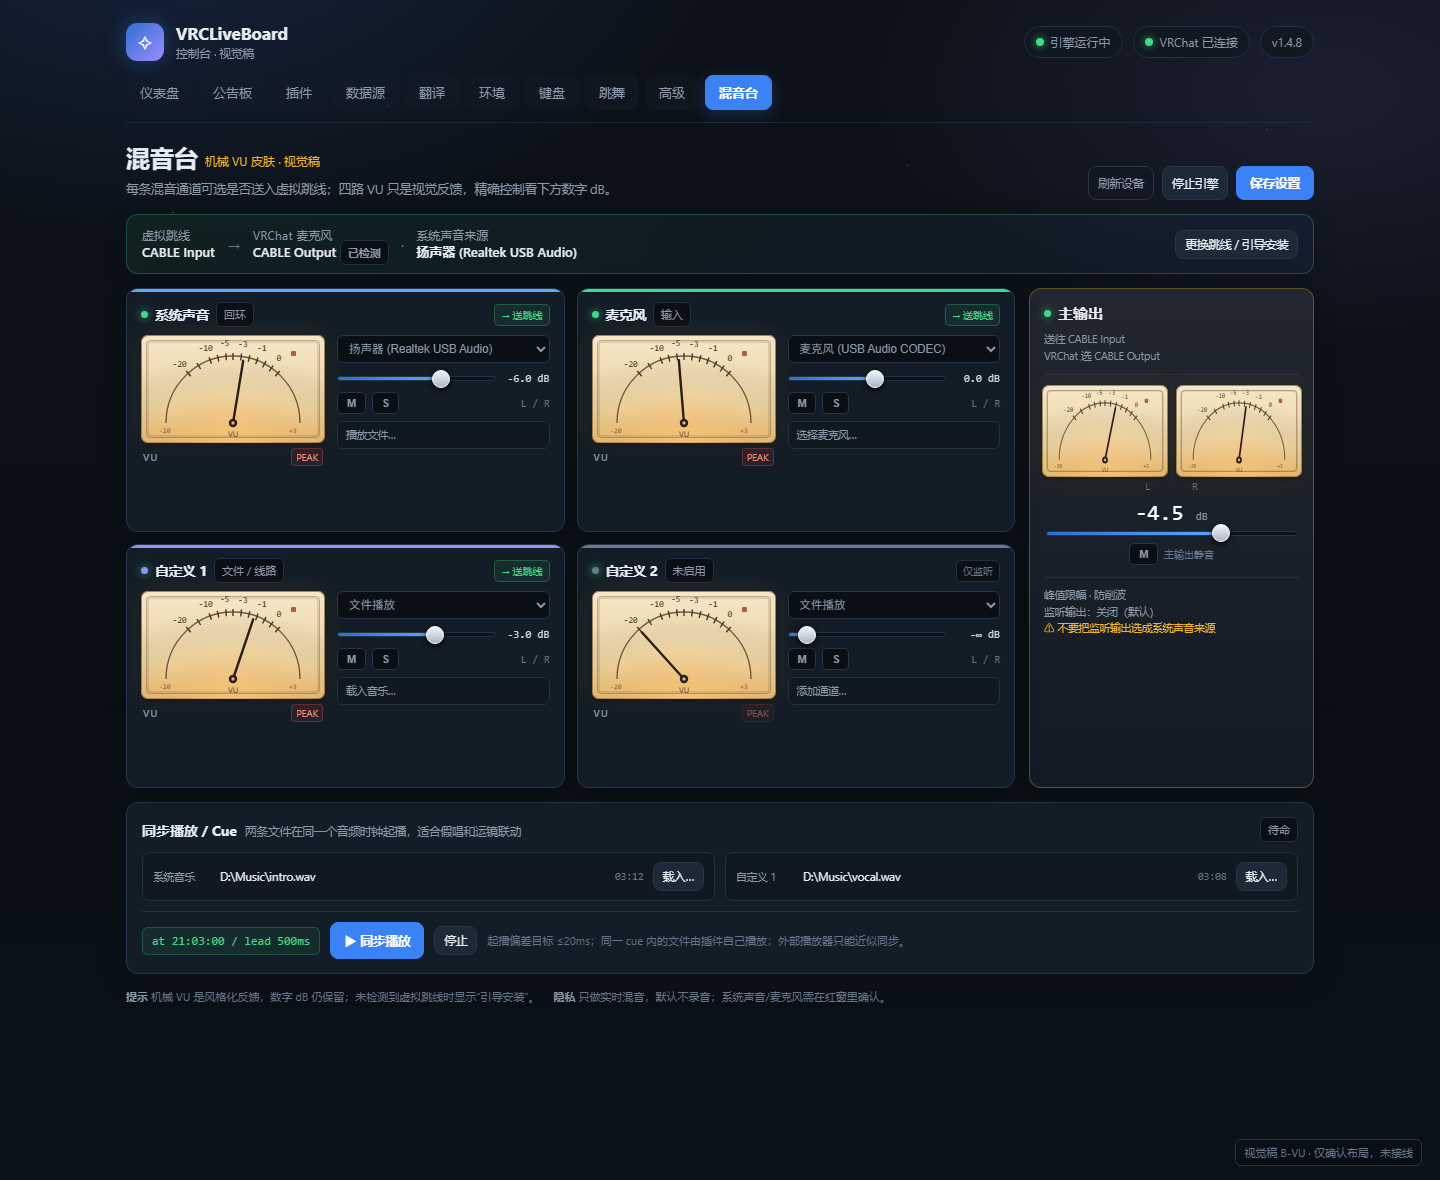
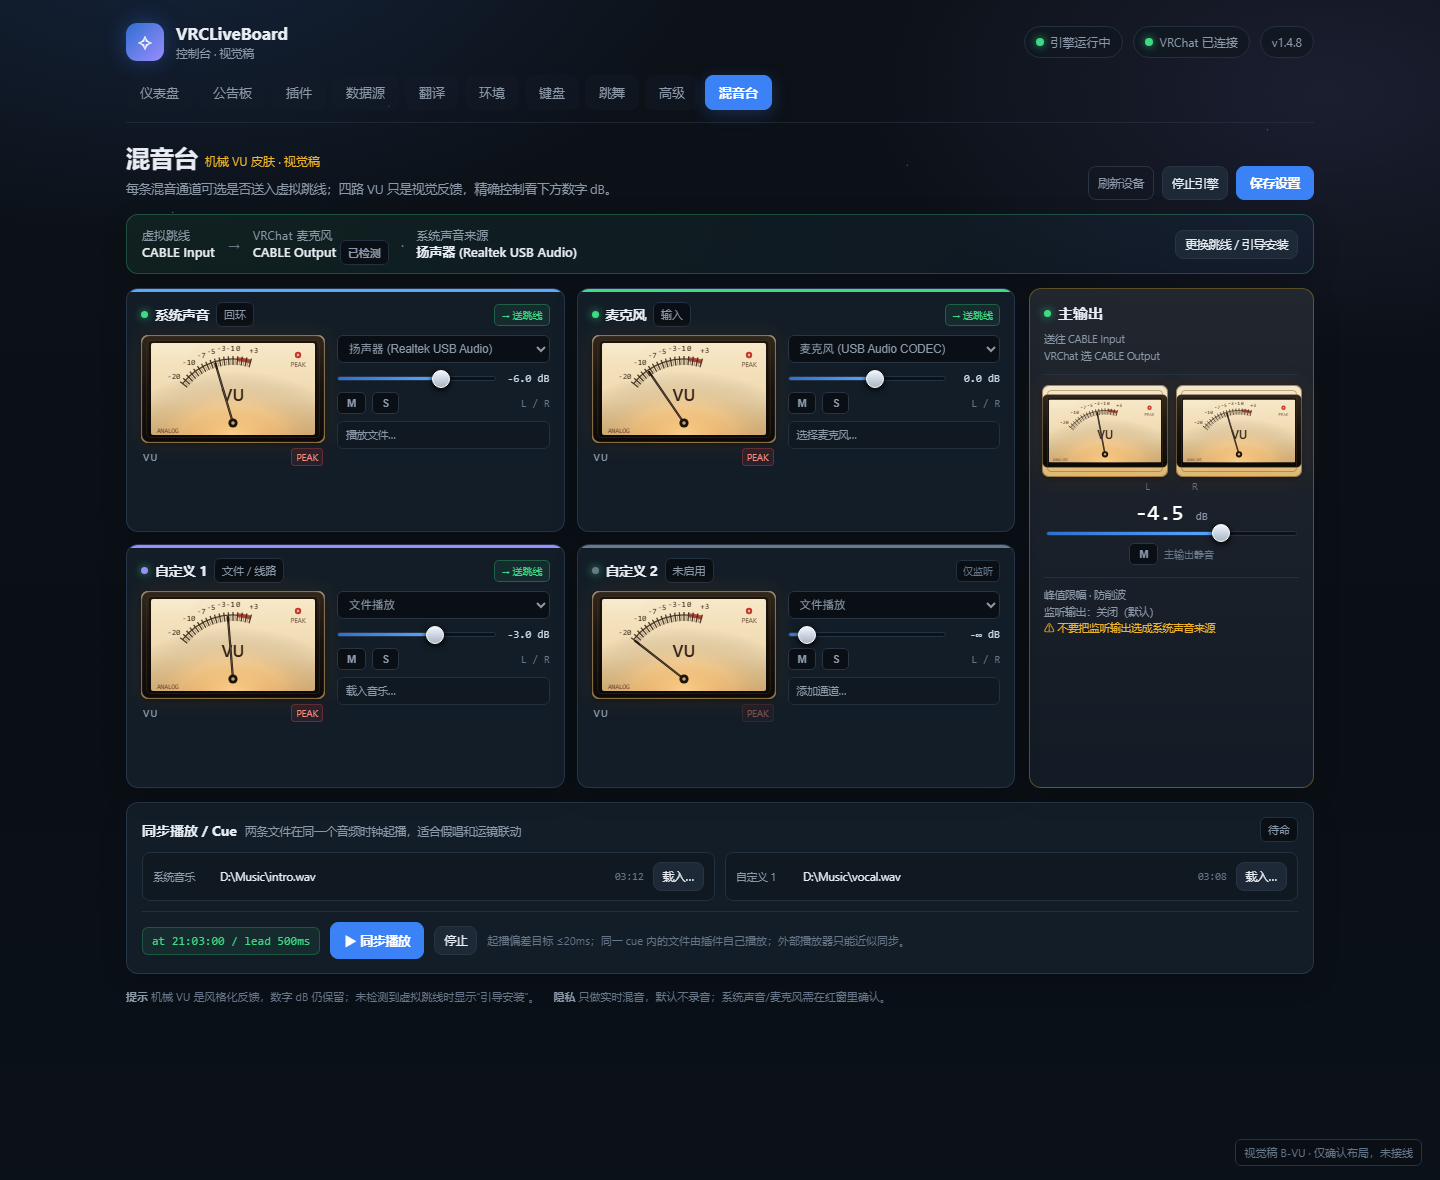
docs(feature): 精修机械 VU 表并确认 A+B-VU 双布局
按近景参考重画奶油表纸/黑刻度/红色+区/PEAK灯/暖光/金属边框; A 与 B-VU 两套布局都实现, 页面右上角切换并持久化; B-VU 保留数字 dB/峰值兜底.

diff --git a/docs/FEATURES/assets/virtual-mixer-mockup-b-vu.html b/docs/FEATURES/assets/virtual-mixer-mockup-b-vu.html
@@ -95,38 +95,54 @@ body:before{content:'';position:fixed;inset:0;pointer-events:none;opacity:.5;bac
     var t = (v + 30) / 36; // 0..1
     return -42 + t * 84;
   }
+  function polar(cx,cy,r,deg){ var a=deg*Math.PI/180; return [cx+Math.sin(a)*r, cy-Math.cos(a)*r]; }
+  function arcPath(cx,cy,r,a1,a2){ var p1=polar(cx,cy,r,a1), p2=polar(cx,cy,r,a2); var large=Math.abs(a2-a1)>180?1:0; return 'M'+p1[0].toFixed(1)+' '+p1[1].toFixed(1)+' A'+r+' '+r+' 0 '+large+' 1 '+p2[0].toFixed(1)+' '+p2[1].toFixed(1); }
   function ticks(){
-    var out = '';
-    var labels = [-20,-10,-5,-3,-1,0,1,2,3];
-    var angles = [-42,-31,-20,-13,-6,0,7,14,21,28,35,42];
-    for (var i=0;i<angles.length;i++){
-      var a = angles[i] * Math.PI / 180;
-      var r1 = 63, r2 = 70;
-      var x1 = 92 + Math.sin(a)*r1, y1 = 88 - Math.cos(a)*r1;
-      var x2 = 92 + Math.sin(a)*r2, y2 = 88 - Math.cos(a)*r2;
-      out += '<line x1="'+x1.toFixed(1)+'" y1="'+y1.toFixed(1)+'" x2="'+x2.toFixed(1)+'" y2="'+y2.toFixed(1)+'" stroke="#4a3623" stroke-width="1.4"/>';
-      if (i % 2 === 0 && labels[i/2] !== undefined) {
-        var tx = 92 + Math.sin(a)*80, ty = 88 - Math.cos(a)*80 + 3;
-        out += '<text x="'+tx.toFixed(1)+'" y="'+ty.toFixed(1)+'" text-anchor="middle" font-size="8.5" fill="#4b3825" font-family="Consolas,monospace">'+labels[i/2]+'</text>';
-      }
+    var out='';
+    var major=[-20,-10,-7,-5,-3,-1,0,3];
+    var majorAng=[-52,-36,-25,-17,-9,-2,4,16];
+    for(var i=0;i<=34;i++){
+      var a=-52+i*(68/34);
+      var r1=58, r2=(i%2===0?67:63);
+      var p1=polar(92,88,r1,a), p2=polar(92,88,r2,a);
+      out+='<line x1="'+p1[0].toFixed(1)+'" y1="'+p1[1].toFixed(1)+'" x2="'+p2[0].toFixed(1)+'" y2="'+p2[1].toFixed(1)+'" stroke="#3d2b1c" stroke-width="'+(i%2===0?1.3:0.8)+'" opacity="'+(i%2===0?'.9':'.55')+'"/>';
+    }
+    for(var j=0;j<major.length;j++){
+      var a2=majorAng[j];
+      var p=polar(92,88,75,a2);
+      out+='<text x="'+p[0].toFixed(1)+'" y="'+(p[1]+2.5).toFixed(1)+'" text-anchor="middle" font-size="8" fill="#3a2718" font-family="Consolas,monospace">'+(major[j]>0?'+':'')+major[j]+'</text>';
     }
     return out;
   }
   function svgMeter(level){
-    var ang = tone(level);
-    var ticksHtml = ticks();
-    return '<svg viewBox="0 0 184 108" preserveAspectRatio="none">'+
-      '<defs><radialGradient id="bulb" cx="50%" cy="105%" r="85%"><stop offset="0%" stop-color="#ffd28a" stop-opacity=".55"/><stop offset="60%" stop-color="#ffb15a" stop-opacity=".12"/><stop offset="100%" stop-color="#000" stop-opacity="0"/></radialGradient></defs>'+
-      '<rect x="0" y="0" width="184" height="108" fill="url(#bulb)"/>'+
-      '<rect x="7" y="7" width="170" height="94" rx="3" fill="none" stroke="#7c5a33" stroke-opacity=".35"/>'+
-      '<path d="M25 88 A67 67 0 0 1 159 88" fill="none" stroke="#5a4129" stroke-width="1.4" opacity=".85"/>'+
-      ticksHtml+
-      '<line x1="92" y1="88" x2="92" y2="25" stroke="#2a1f16" stroke-width="2.4" stroke-linecap="round" transform="rotate('+ang.toFixed(1)+' 92 88)"/>'+
-      '<circle cx="92" cy="88" r="4.2" fill="#2a1f16"/><circle cx="92" cy="88" r="1.7" fill="#d8b77a"/>'+
-      '<text x="92" y="102" text-anchor="middle" font-size="7.5" fill="#5b4229" font-family="Segoe UI">VU</text>'+
-      '<text x="18" y="98" font-size="7" fill="#7a5a34" font-family="Consolas,monospace">-20</text>'+
-      '<text x="148" y="98" font-size="7" fill="#a33a2a" font-family="Consolas,monospace">+3</text>'+
-      '<rect x="150" y="16" width="5" height="5" rx="1" fill="#a33a2a" opacity=".8"/>'+
+    var v=Math.max(-20,Math.min(3,Number(level)||0));
+    var t=(v+20)/23; var ang=-52+t*68;
+    var tickHtml=ticks();
+    var red=arcPath(92,88,64,4,16);
+    return '<svg viewBox="0 0 184 108" preserveAspectRatio="xMidYMid meet">'+
+      '<defs>'+
+      '<linearGradient id="paper" x1="0" y1="0" x2="0" y2="1"><stop offset="0" stop-color="#f7e8c8"/><stop offset=".62" stop-color="#efd8ad"/><stop offset="1" stop-color="#d8b57d"/></linearGradient>'+
+      '<radialGradient id="bulb" cx="50%" cy="100%" r="70%"><stop offset="0" stop-color="#ffd38c" stop-opacity=".85"/><stop offset=".45" stop-color="#ffae52" stop-opacity=".25"/><stop offset="1" stop-color="#000" stop-opacity="0"/></radialGradient>'+
+      '<linearGradient id="bezel" x1="0" y1="0" x2="0" y2="1"><stop offset="0" stop-color="#30261c"/><stop offset=".5" stop-color="#17120e"/><stop offset="1" stop-color="#0b0907"/></linearGradient>'+
+      '<clipPath id="faceclip"><rect x="10" y="8" width="164" height="92" rx="2"/></clipPath>'+
+      '</defs>'+
+      '<rect x="1" y="1" width="182" height="106" rx="7" fill="url(#bezel)" stroke="#4f3e2d" stroke-opacity=".55"/>'+
+      '<rect x="8" y="6" width="168" height="96" rx="3" fill="#0c0907" opacity=".55"/>'+
+      '<g clip-path="url(#faceclip)">'+
+      '<rect x="10" y="8" width="164" height="92" fill="url(#paper)"/>'+
+      '<rect x="10" y="8" width="164" height="92" fill="url(#bulb)"/>'+
+      '<path d="'+arcPath(92,88,64,-52,16)+'" fill="none" stroke="#3e2a1a" stroke-width="1.2" opacity=".9"/>'+
+      '<path d="'+red+'" fill="none" stroke="#b03a2a" stroke-width="4" opacity=".85"/>'+
+      tickHtml+
+      '<text x="92" y="66" text-anchor="middle" font-size="17" font-weight="600" fill="#2f2115" font-family="Segoe UI">VU</text>'+
+      '<text x="16" y="98" font-size="6.5" fill="#6b4c30" font-family="Consolas,monospace">ANALOG</text>'+
+      '<circle cx="157" cy="20" r="3.2" fill="#c23b2c"/><circle cx="157" cy="20" r="1.2" fill="#ffb4a8"/>'+
+      '<text x="157" y="32" text-anchor="middle" font-size="6.5" fill="#5b3c27" font-family="Segoe UI">PEAK</text>'+
+      '<polygon points="12,9 58,9 46,20 12,20" fill="#fff" opacity=".10"/>'+
+      '</g>'+
+      '<line x1="92" y1="88" x2="92" y2="26" stroke="#24170f" stroke-width="2.2" stroke-linecap="round" transform="rotate('+ang.toFixed(1)+' 92 88)"/>'+
+      '<line x1="92" y1="88" x2="92" y2="32" stroke="#f6e6c8" stroke-width=".7" opacity=".35" transform="rotate('+ang.toFixed(1)+' 92 88)"/>'+
+      '<circle cx="92" cy="88" r="4.6" fill="#1d130d"/><circle cx="92" cy="88" r="1.8" fill="#c8a36b"/>'+
       '</svg>';
   }
   var nodes = document.querySelectorAll('.vu');

diff --git a/docs/FEATURES/F-20261123-01-虚拟混音台.md b/docs/FEATURES/F-20261123-01-虚拟混音台.md
@@ -1,11 +1,11 @@
 # F-20261123-01 简易虚拟混音台总线
 
-> 状态: **方案已确认（D1 引导安装 / 单跳线 / B1 通道 / C1 同步 / E1 引擎 / F1 自动化）；D4 视觉稿等待用户在 A/B 中确认**。未开发。
+> 状态: **方案已确认（D1 引导安装 / 单跳线 / B1 通道 / C1 同步 / E1 引擎 / F1 自动化；D4 双布局 A+B-VU 都做）**。视觉精修中，未开发。
 > 流程: `docs/PROCESS-02-开发更新.md` D0/D1；本卡先回答七问和四张契约，确认后再进 D2。
 
 ## 0. 状态与归属
 
-- 状态: DRAFT（方案已确认，视觉待选）
+- 状态: DRAFT（方案已确认，视觉精修/实现准备）
 - 归属: **插件**（`plugins/virtual-mixer`）+ **主程序控制台新增混音台页面**（仅 UI/接口桥，不放核心音频算法）
 - 目标版本: 插件 `0.1.0`；主程序 UI 改动按 PROCESS-02 走 milestone（不混进补丁位）
 - 关联: 待实现后写 DEV-NOTES 条目。
@@ -196,6 +196,8 @@ VRChat 主播/整活用户：希望把「系统正在播放的声音」「自己
 - [ ] S1 引擎骨架 + 设备枚举 + 文件播放/混音（无采集），离线 selftest + 输出 WAV 验证。
 - [ ] S2 系统回环 + 麦克风采集 + 通道增益/静音/独奏/limiter；异常恢复。
 - [ ] S3 虚拟声卡检测/向导 + VRChat 麦克风路由 + 控制台“混音台”页面（主程序 UI 改动）。
+- [ ] S3a A 通道条布局（数字表/数字推子）。
+- [ ] S3b B-VU 布局（机械表 + 数字兜底）与布局切换持久化。
 - [ ] S4 cue 同步 API + camera-path 联动 + 三语文档 + 插件包/市场包 + 安全审计。
 
 每个切片独立可 revert；插件默认关闭；主程序 UI 切片不进补丁位。
@@ -215,11 +217,11 @@ VRChat 主播/整活用户：希望把「系统正在播放的声音」「自己
 | D1 | 虚拟声卡来源 | **A1 + B：一根虚拟跳线（VB-CABLE 即可）+ 插件引导官方安装器（用户点 UAC，不复制驱动）** | A1 仅手动安装；A2 只对接 VoiceMeeter；A3 打包/静默安装（不做） |
 | D2 | “三个通道”语义 | **B1 三条混音 strip，每条可选“送虚拟跳线”，合并到一路 master→虚拟麦克风** | B2 三个独立 Windows 输出设备（需三条虚拟线） |
 | D3 | 同步播放 | **C1 插件自己播放两个文件，同一 cue 精确起播** | C2 控制外部播放器（只能近似） |
-| D4 | 界面深度 | **D1 控制台新增“混音台”页面（推子/电平/静音/独奏）；视觉 A / B / B-VU 待选** | D2 只用 manifest.settings 文本字段（无实时推子） |
+| D4 | 界面深度 | **A 通道条 + B-VU 机械表两套布局都做，可切换（用户已确认）** | D2 只用 manifest.settings 文本字段（无实时推子） |
 | D5 | 音频引擎 | **E1 C#/.NET Framework + NAudio** | E2 Python soundcard；E3 纯 Electron WebAudio |
 | D6 | 自动化接口 | **F1 复用 /api/plugins/call + JSON 方法 + cue** | F2 另加 OSC 控制（可作为后续） |
 
-**已确认: D1-A1（引导安装）+ 单跳线、D2-B1、D3-C1、D5-E1、D6-F1。D4 已选“控制台新增混音台页面”，视觉在 A / B / B-VU 中确认。**
+**已确认: D1-A1（引导安装）+ 单跳线、D2-B1、D3-C1、D4 双布局（A+B-VU）、D5-E1、D6-F1。**
 
 ## 7. 风险与边界
 
@@ -255,7 +257,8 @@ VRChat 主播/整活用户：希望把「系统正在播放的声音」「自己
 ![混音台视觉稿 B-VU](assets/virtual-mixer-mockup-b-vu.png)
 
 - 四条通道卡片各放一只**模拟 VU 表**，主输出放 **L/R 双 VU**；保留数字 dB 读数、峰值 LED 和横向推子。
-- 表面为暖色背光、黑色刻度、细指针，风格参考你桌上的 TASCAM 122MK3，但不使用 TASCAM 商标/型号字样。
+- **精修方向（按你给的近景参考）**：奶油色表纸、黑色刻度/数字、`+` 区红色刻度、红色 PEAK 灯、底部灯泡暖光、深色金属边框、细黑指针；只借风格，不使用 TASCAM/TEAC 商标或型号字样。
+- 指针长度、支点、刻度密度、PEAK 灯位置按近景图重画；近看像机械表，缩到卡片尺寸仍能读。
 - 机械表只做**风格化平均值**反馈；精确音量仍看数字 dB，表针不承担精确计量。
 - 实现方式：SVG/CSS 指针 + 30fps 动画；VU 弹道采用约 300ms 积分/回落，指针不抖动；4–8 只表的 CPU 开销可忽略，不需要改音频引擎。
 - 可选：右下角“机械表 / 数字表”切换，或只把 VU 作为主题皮肤；避免小屏看不清时无法读数。
@@ -267,6 +270,13 @@ VRChat 主播/整活用户：希望把「系统正在播放的声音」「自己
 - 与简单电平条相比：两者都要按帧更新 DOM；机械表只多一条指针线的局部重绘，**不会产生数量级差异**。
 - 桌面壳默认 `hardwareAcceleration=off`（软件渲染），所以按更保守的预算验收：混音台打开、6 只表动画时，整机 CPU 增量目标 **<1%**；超过就自动降级为数字电平条。
 - 提供“机械表 / 数字表”开关，以及低配模式（15fps / 关闭背光渐变）；不做“为了好看拖慢主程序”的取舍。
+### A 与 B-VU 的关系（用户已确认两个都做）
+
+- **A：通道条式**：适合快速推子操作，接近 OBS。
+- **B-VU：卡片式 + 机械表**：适合你桌面 TASCAM 的视觉气质，默认建议作为正式外观。
+- 两套共用同一套引擎/API/状态；页面右上角提供“布局：通道条 / 机械表”切换，选择写入配置，下次打开保持。
+- 低配/无障碍时仍可切回 A 或 B-VU 的“数字表”回退，不影响音频功能。
+
 ### 两稿共同点
 
 - 深色星轨主题、蓝色主色、圆角卡片、顶部状态 pill 与现有控制台一致。
@@ -274,15 +284,14 @@ VRChat 主播/整活用户：希望把「系统正在播放的声音」「自己
 - 明确显示虚拟跳线两端，缺失时显示“更换跳线 / 引导安装”。
 - 每个通道有 M/S；主输出有峰值限幅提示；监听默认关闭并提示防回授。
 
-### 需要你选择/修改
+### 仍需确认的视觉细节
 
-1. **选 A、B 还是 B-VU**：B-VU 最贴近你桌面 TASCAM 的质感；A 更接近 OBS 的紧凑操作。
-2. 默认通道数：B-VU 当前画 4 条（3 必需 + 1 未启用）；是否默认只显示 3 条、点“添加通道”再展开？
-3. B-VU：是否保留“每通道一只 VU + 主输出 L/R 双 VU”？主输出是否也要更大的表盘？
-4. 推子旁是否要刻度（+6/0/-12/-24/-∞）和可编辑 dB 数字框？
-5. 是否保留数字 dB、峰值 LED 作为精确读数（建议保留）？
-6. 同步播放区放在主混音区下方是否合适；是否需要“倒计时/进度条”？
-
+1. **默认布局**：B-VU 机械表（推荐，符合你的桌面）还是 A 通道条？两者都会做，切换按钮在页面右上角。
+2. 默认显示 3 条（系统 / 麦克风 / 自定义 1）还是 4 条（含一条未启用占位）？
+3. 主输出的 L/R 双 VU 是否要更大（当前卡片里较小）？
+4. 是否保留数字 dB/峰值 LED 作为精确读数（推荐保留；机械表只做风格反馈）。
+5. 推子旁是否要 `+6/0/-12/-24/-∞` 刻度和可编辑 dB 数字框？
+6. Cue 区是否要倒计时/进度条？
 ## 8. 确认方式
 
 用户回复以下任一形式即可进入 D1 细化/实现：
